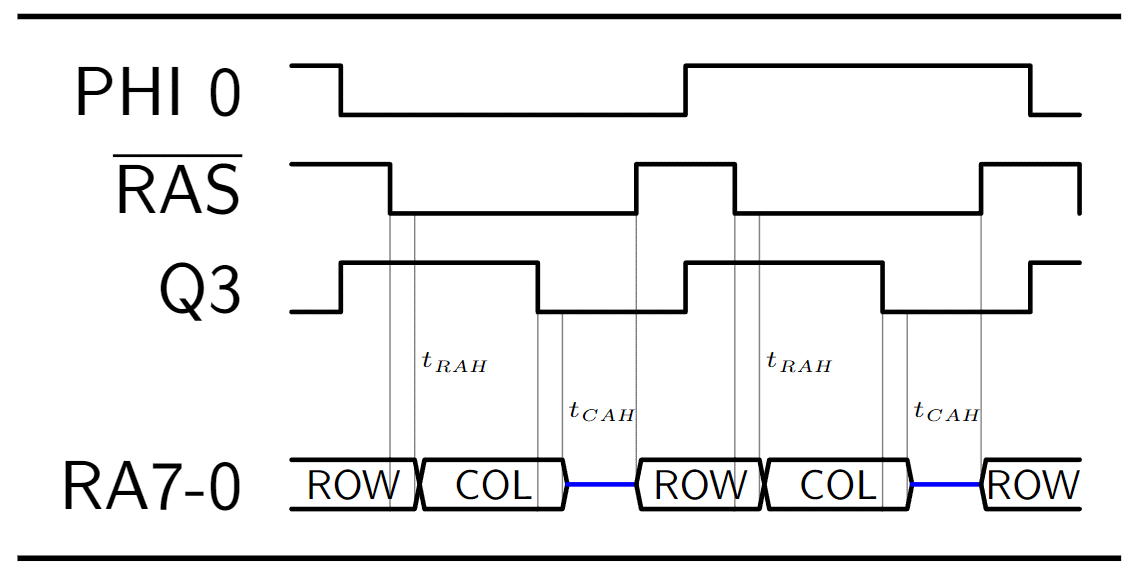
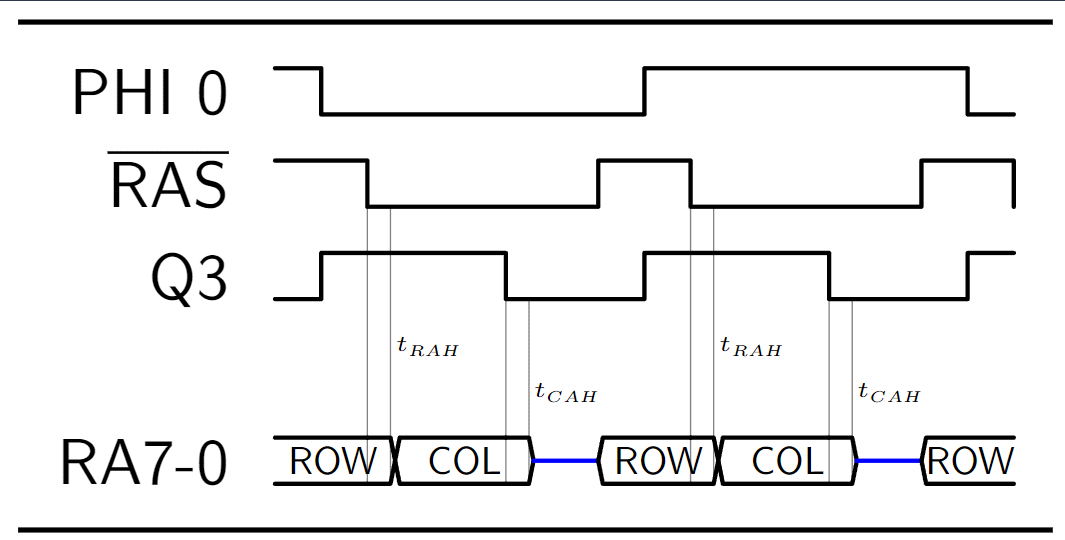
Added more timing infos

diff --git a/resources/DRAM_HOLD_TIME.tex b/resources/DRAM_HOLD_TIME.tex
@@ -15,10 +15,10 @@
 \def\degr{${}^\circ$}
 \begin{tikztimingtable}
   PHI 0                    & H 7C 7C C\\
-  $\overline{\mbox{RAS}}$  & 2H N(TRH_T1) .5C N(TRH_T2) 4.5L N(RT1) 2C N(TRH_T3) .5C N(TRH_T4) 4.5L N(RT2) 2C G\\
+  $\overline{\mbox{RAS}}$  & 2H N(TRH_T1) .5C N(TRH_T2) 4.5L 2C N(TRH_T3) .5C N(TRH_T4) 4.5L 2C G\\
   Q3                       & L 4C N(TRC_T1) 0.5C N(TRC_T2) 2.5L 4C N(TRC_T3) 0.5C N(TRC_T4) 2.5L C\\
   \\
-  RA7-0                    & 2D N(TRH_B1) 0.5D{ROW} N(TRH_B2) 2.5D N(TRC_B1) 0.5D{COL} N(TRC_B2) 1.5Z N(RB1) 2D N(TRH_B3) 0.5D{ROW} N(TRH_B4) 2.5D  N(TRC_B3) 0.5D{COL} N(TRC_B4) 1.5Z N(RB2) 2D{ROW}\\
+  RA7-0                    & 2D N(TRH_B1) 0.5D{ROW} N(TRH_B2) 2.5D N(TRC_B1) 0.5D{COL} N(TRC_B2) 1.5Z 2D N(TRH_B3) 0.5D{ROW} N(TRH_B4) 2.5D  N(TRC_B3) 0.5D{COL} N(TRC_B4) 1.5Z 2D{ROW}\\
 \extracode
   \tablerules
   \begin{pgfonlayer}{background}
@@ -34,8 +34,6 @@
       \draw [help lines] (TRC_T4) -- (TRC_B4);
       \node [anchor=south east,inner sep=0pt] at (7.1, -6.25) {\fontsize{3.5}{4}\selectfont $t_{CAH}$};
       \node [anchor=south east,inner sep=0pt] at (14.1, -6.25) {\fontsize{3.5}{4}\selectfont $t_{CAH}$};
-      \draw [help lines] (RT1) -- (RB1);
-      \draw [help lines] (RT2) -- (RB2);
   \end{pgfonlayer}
 \end{tikztimingtable}
 \end{document}

diff --git a/resources/ROMEN_HOLD_TIME.tex b/resources/ROMEN_HOLD_TIME.tex
@@ -1,0 +1,29 @@
+\documentclass{article}
+\usepackage{tikz-timing}
+\usepackage{lmodern}
+\pagestyle{empty}
+\def\degr{${}^\circ$}
+
+
+\usepackage[active,tightpage]{preview}
+\PreviewEnvironment{tikzpicture}
+\setlength{\PreviewBorder}{1mm}
+\pagestyle{empty}
+
+\begin{document}
+
+\def\degr{${}^\circ$}
+\begin{tikztimingtable}
+  PHI 0                    & L 7C N(TT1) 0.5C N(TT2) 6.5L C\\
+  \\
+  $\overline{\mbox{ROMEN2}}$  & 1.5H 6.5C 0.5L 7C \\
+  $\overline{\mbox{ROMEN1}}$  & 1.5H 6.5C N(TB1) 0.5L N(TB2) 7C \\
+\extracode
+  \tablerules
+  \begin{pgfonlayer}{background}
+      \draw [help lines] (TT1) -- (TB1);
+      \draw [help lines] (TT2) -- (TB2);
+      \node [anchor=south east,inner sep=0pt] at (10.2, -1.5) {\fontsize{3.5}{4}\selectfont $t_{RH}$};
+  \end{pgfonlayer}
+\end{tikztimingtable}
+\end{document}

diff --git a/resources/EN80_HOLD_TIME.tex b/resources/EN80_HOLD_TIME.tex
@@ -1,0 +1,28 @@
+\documentclass{article}
+\usepackage{tikz-timing}
+\usepackage{lmodern}
+\pagestyle{empty}
+\def\degr{${}^\circ$}
+
+
+\usepackage[active,tightpage]{preview}
+\PreviewEnvironment{tikzpicture}
+\setlength{\PreviewBorder}{1mm}
+\pagestyle{empty}
+
+\begin{document}
+
+\def\degr{${}^\circ$}
+\begin{tikztimingtable}
+  PHI 0                    & L 7C N(TT1) 0.5C N(TT2) 6.5L C\\
+  \\
+  $\overline{\mbox{EN80}}$  & 1.5H 6.5C N(TB1) 0.5L N(TB2) 7C \\
+\extracode
+  \tablerules
+  \begin{pgfonlayer}{background}
+      \draw [help lines] (TT1) -- (TB1);
+      \draw [help lines] (TT2) -- (TB2);
+      \node [anchor=south east,inner sep=0pt] at (10.2, -1.5) {\fontsize{3.5}{4}\selectfont $t_{EH}$};
+  \end{pgfonlayer}
+\end{tikztimingtable}
+\end{document}

diff --git a/CUSTOM/MMU_HOLD_TIME/readme.md b/CUSTOM/MMU_HOLD_TIME/readme.md
@@ -8,10 +8,23 @@ To be used when the delays are added externally and with the testbenches.
 This can be used with Altera FPGA/CPLDs that support the LCELL primitive.
 
 #### Specifications
-The signals /EN80 is required to hold it's value a certain delay past the PHI_0 change. The signals /ROMEN1 and /ROMEN2 also show a hold delay, but don't seem to be necessary. It is added nonetheless for the sake of being closer to the ASIC MMU's timings.
+The signals /EN80 is required to hold it's value a certain delay past the PHI_0 change.<br/>
+The signals /ROMEN1 and /ROMEN2 also show a hold delay, but don't seem to be necessary. It is added nonetheless for the sake of being closer to the ASIC MMU's timings.
+<br/>
 To add the delay, we add a delay to PHI_0 and use this delayed signal in the computation of /EN80, /ROMEN1, and /ROMEN2.
+<br/>
+<br/>
+The required timings are as follow:<br/>
+##### /EN80
+<img src="/resources/EN80_HOLD_TIME.png" width="720">
+##### /ROMEN2 and /ROMEN1
+<img src="/resources/ROMEN_HOLD_TIME.png" width="720">
 
-| Signal | Min | Typ | Max | Unit |
-| - | - | - | - | - |
-| PHI_0 |  | 45 |  | ns |
+##### Timings
+| Parameter | Min | ASIC<sup>1</sup> | Ours<sup>2</sup> | Max | Unit |
+| - | - | - | - | - | - |
+| t<sub>EH</sub> |  | 45 | 45 |  | ns |
+| t<sub>RH</sub> | 0 | 45 | 45 |  | ns |
 
+<sup>1</sup> The timings of the original Apple IIe MMU/IOU<br/>
+<sup>2</sup> The timings we used in this implementation
